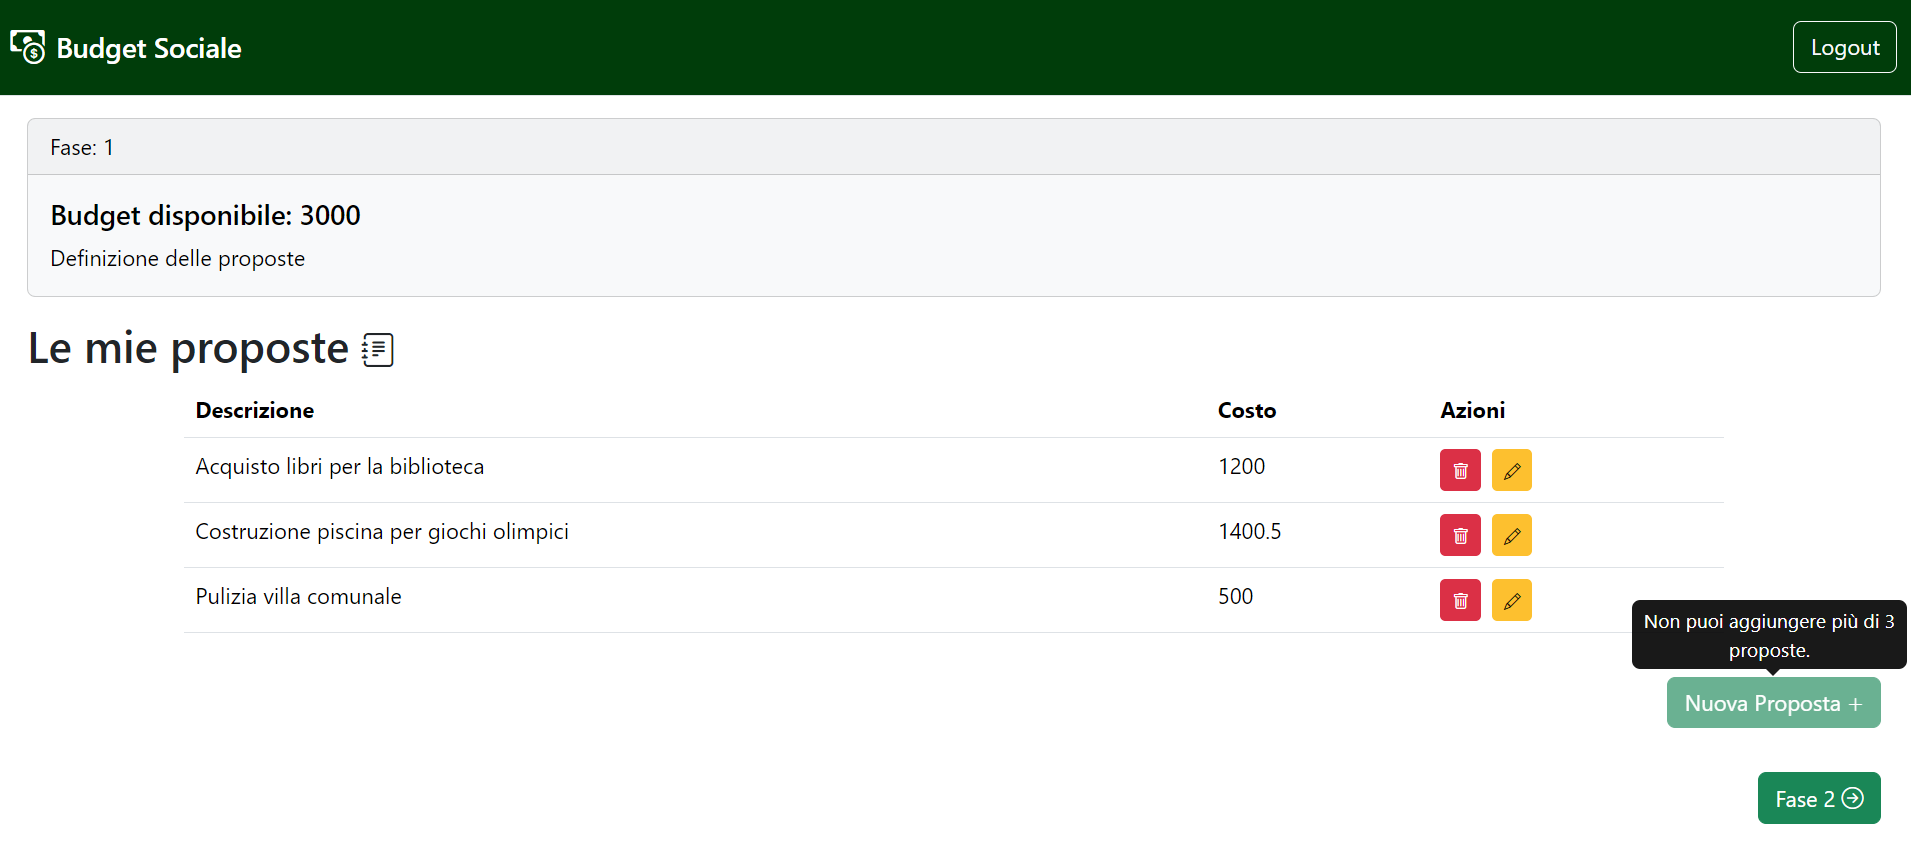
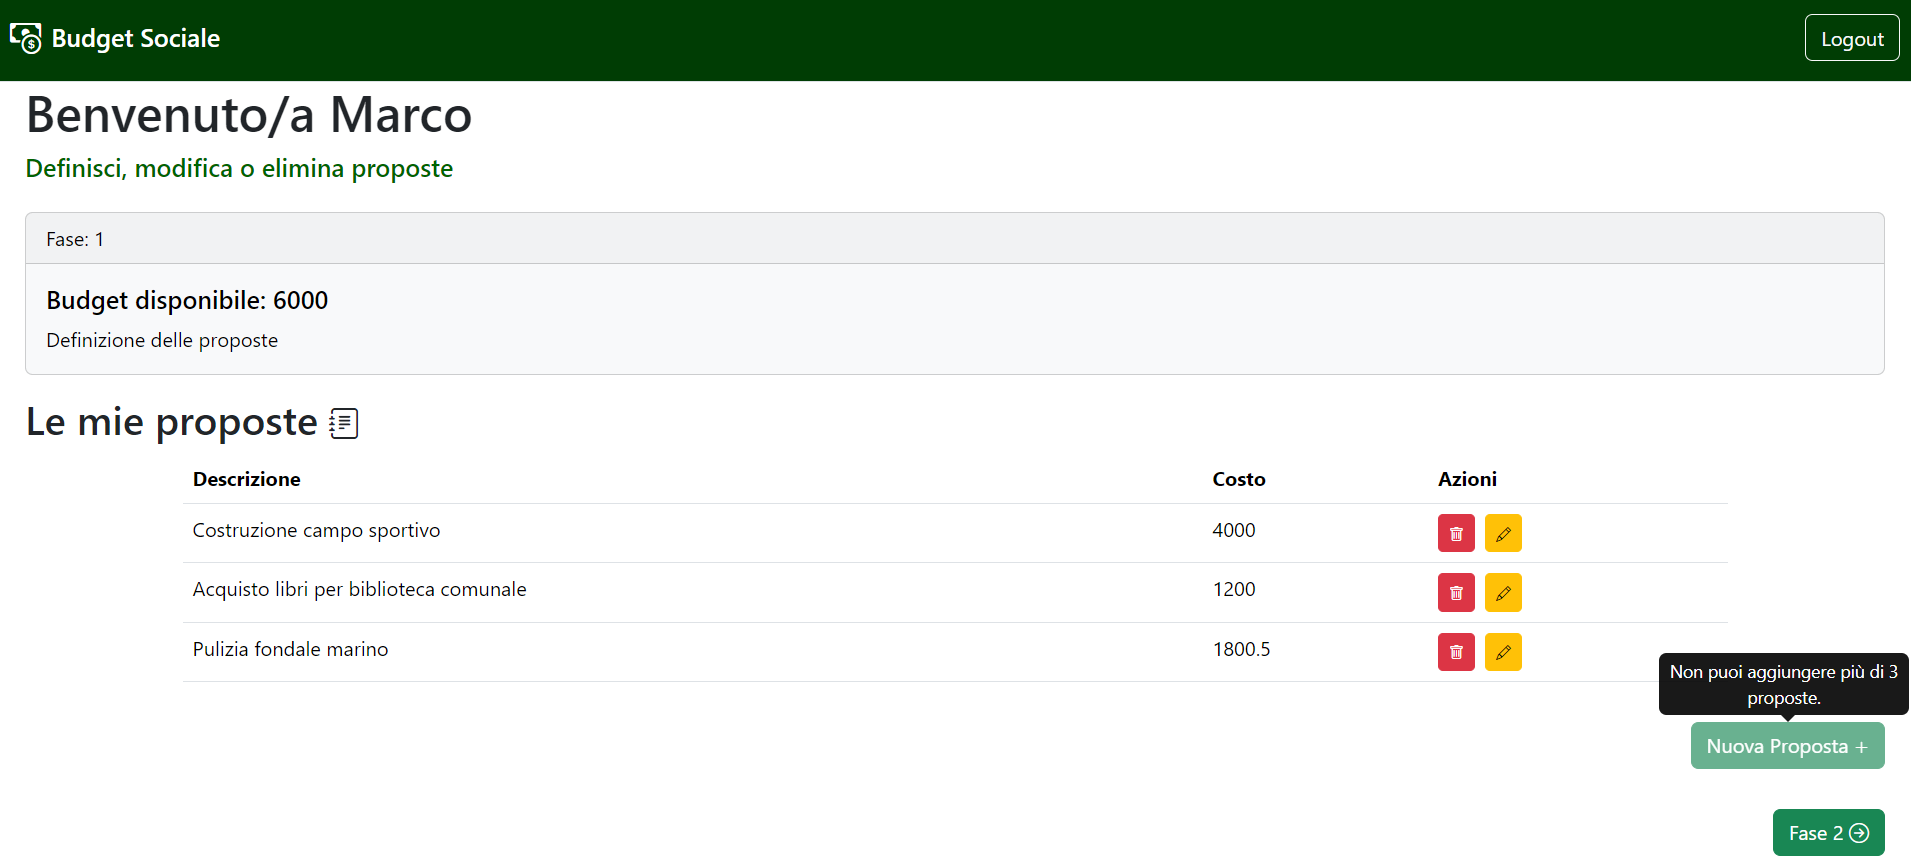
fix: FixingBug

diff --git a/client/src/components/AddEditProposalForm.jsx b/client/src/components/AddEditProposalForm.jsx
@@ -27,25 +27,6 @@ const AddEditProposalForm = ({ proposal, mode, user }) => {
     const formTitle = mode === 'edit' ? 'Modifica Proposta' : 'Aggiungi Nuova Proposta';
 
     /**
-     * UseEffect per recuperare fase e budget attuale
-     */
-    /*useEffect(() => {
-      const fetchData = async () => {
-        try {
-          const budgetSociale = await API.getBudgetAndFase();
-          setFase(budgetSociale.current_fase); // Imposto la fase nel contesto
-          setBudget(budgetSociale.amount); // Imposto il budget nel contesto
-        } catch (error) {
-          console.error('Error fetching budget and fase:', error);
-          setAlertMessage('Errore nel recupero del budget e della fase');
-        }
-      };
-  
-      fetchData(); //Chiamo la funzione all'avvio del componente
-    }, []);
-    */
-
-    /**
      * UseEffect per recuperare i dettagli della proposta
      * Lo uso solo in modalità edit
      */
@@ -78,7 +59,7 @@ const AddEditProposalForm = ({ proposal, mode, user }) => {
             setAlertMessage('Il costo della proposta non può essere superiore del budget.');
             return;
         }
-        //Nuovo oggetto Proposal
+        
         const newProposal = { userId: user.id, description, cost, approved: 0 };
 
         // Controllo se la descrione è un numero (errore)

diff --git a/client/src/components/Phase2Page.jsx b/client/src/components/Phase2Page.jsx
@@ -101,6 +101,13 @@ const Phase2Page = ({ user }) => {
         </Alert>
       )}
 
+    <Row>
+      <Col>
+        <h1>Benvenuto/a {user.name}</h1>
+        <h5 style={{ color: 'darkgreen' }}>Esprimi la tua preferenza per le proposte</h5>
+      </Col>
+    </Row>
+
       <Row>
         <Col>
           {/* Card bootstrap per il budget e la fase */}
@@ -108,8 +115,7 @@ const Phase2Page = ({ user }) => {
             <Card.Header className="text-black">Fase: 2</Card.Header>
             <Card.Body className="text-black">
               <Card.Title>Preferenze Proposte</Card.Title>
-              <Card.Text> Esprimi la tua preferenza per le proposte <br></br>
-              <strong>Attenzione: Puoi esprimere un punteggio da 1 a 3 per ogni preferenza</strong></Card.Text>
+              <Card.Text><strong>Attenzione: Puoi esprimere un punteggio da 1 a 3 per ogni preferenza</strong></Card.Text>
             </Card.Body>
           </Card>
         </Col>

diff --git a/client/src/components/Phase0Page.jsx b/client/src/components/Phase0Page.jsx
@@ -103,7 +103,8 @@ const Phase0Page = ({ user }) => {
         <div>
           <Row>
             <Col>
-              <h1>Fase 0</h1>
+              <h1>Benvenuto/a {user.name}</h1>
+              <h5 style={{ color: 'darkgreen' }}>Imposta un budget per iniziare il processo di definizione delle proposte</h5>
             </Col>
           </Row>
           
@@ -141,9 +142,14 @@ const Phase0Page = ({ user }) => {
           </Row>
         </div>
       ) : ( //Se l'user non è Admin
+        
         <Row>
           <Col>
-            
+          <Row>
+            <Col>
+              <h1>Benvenuto/a {user.name}</h1>
+            </Col>
+          </Row>
             <Card className="card bg-light mb-3" style={{ maxWidth: '100rem', marginTop: '1rem' }}>
               <Card.Header className="text-black">Fase: 0</Card.Header>
               <Card.Body className="text-black">

diff --git a/client/src/components/MyPreferences.jsx b/client/src/components/MyPreferences.jsx
@@ -57,6 +57,7 @@ const MyPreferences = ({ user }) => {
 
   return (
     <Container fluid className="gap-3 align-items-center">
+      
       {/* Alert */}
       {alertMessage && (
         <Alert variant="success" onClose={() => setAlertMessage(null)} dismissible>
@@ -76,6 +77,7 @@ const MyPreferences = ({ user }) => {
 
       <Row>
         <Col>
+          {/* Card Bootstrap */}
           <Card className="card bg-light-yellow mb-3" style={{ maxWidth: '100rem', marginTop: '0.5rem' }}>
             <Card.Header className="text-black">Preferenze espresse</Card.Header>
             <Card.Body className="text-black">
@@ -85,8 +87,6 @@ const MyPreferences = ({ user }) => {
           </Card>
         </Col>
       </Row>
-
-      
 
       <Row>
         <Col lg={10} className="mx-auto">

diff --git a/client/src/components/Phase3Page.jsx b/client/src/components/Phase3Page.jsx
@@ -64,6 +64,12 @@ const Phase3Page = ({ user }) => {
 
             <Row>
                 <Col>
+                    {user && <h1>Benvenuto/a {user.name}</h1>}
+                </Col>
+            </Row>
+
+            <Row>
+                <Col>
                     {/* Card bootstrap per il budget e la fase */}
                     <Card className="card bg-light-green mb-3" style={{ maxWidth: '100rem', marginTop: '1rem' }}>
                         <Card.Header className="text-black">Fase: 3</Card.Header>

diff --git a/client/src/components/Phase1Page.jsx b/client/src/components/Phase1Page.jsx
@@ -107,6 +107,13 @@ const Phase1Page = ({ user }) => {
 
       <Row>
         <Col>
+          <h1>Benvenuto/a {user.name}</h1>
+          <h5 style={{ color: 'darkgreen' }}>Definisci, modifica o elimina proposte</h5>
+        </Col>
+      </Row>
+
+      <Row>
+        <Col>
           {/* Card bootstrap per il budget e la fase */}
           <Card className="card bg-light mb-3" style={{ maxWidth: '100rem', marginTop: '1rem' }}>
             <Card.Header className="text-black">Fase: 1</Card.Header>

diff --git a/client/src/components/NotApprovedProposalsPage.jsx b/client/src/components/NotApprovedProposalsPage.jsx
@@ -5,7 +5,6 @@ import '../App.css';
 import React, { useEffect, useState } from 'react';
 import { Link, useNavigate, useParams } from 'react-router-dom';
 import { Container, Row, Col, Button, Card, Table, Alert, OverlayTrigger, Tooltip, Dropdown  } from 'react-bootstrap';
-import { PhaseProvider, usePhase } from '../contexts/PhaseContext.jsx';
 import { BiArrowBack } from 'react-icons/bi';
 import API from '../API';
 

diff --git a/README.md b/README.md
@@ -17,7 +17,7 @@
 - Route: `/notlogged`: pagina renderizzata quando l'utente non è ancora loggato. 
   - Nelle fasi 0-2 mostrerà un messaggio che spiega che la definizionde delle proposte è ancora in corso. 
   - Nella fase 3 mostrerà l'elenco delle proposte approvate
-- Route `*`: comprende tutte le route diverse da quelle sopra elencate mostra un immagine 404 Not Found e un bottone per navigare alla home (/)
+- Route `*`: comprende tutte le route diverse da quelle sopra elencate mostra un immagine 404 Not Found e un pulsante per navigare alla home (/)
 
 ## API Server
 
@@ -90,7 +90,7 @@
     ...
   ]
   ```
-  - Error responses: `500 Internal Server Error` (generic error), `404 Proposals not found`
+  - Error responses: `500 Internal Server Error` (Generic Error), `404 Proposals not found` (Proposals Not Found), `401 Unauthorized` (User Not Authorized - Not Logged)
 
 - GET `/api/proposals/id/:proposalId`
   - Description: Recupera la proposta in base al suo id
@@ -106,33 +106,30 @@
       "approved": 0
     }
     ```
-  - Error responses: `500 Internal Server Error` (generic error), `404 Proposals not found` (not found error), `401 Unauthorized` (utente non autorizzato - non loggato)
+  - Error responses: `500 Internal Server Error` (Generic Error), `404 Proposals not found` (Proposals Not Found), `401 Unauthorized` (User Not Authorized - Not Logged)
 
 - POST `/api/proposals`
   - Description: Aggiunge una nuova proposta di uno specifico user
-  - Request body: descrizione della proposta da aggiungere
-
+  - Request body: Descrizione della proposta da aggiungere
   ``` json
     {
-      "user_id": 2,
       "description": "Pulizia fondale marino",
       "cost": 450
     }
+  ```    
+  - Response: `200 OK` (success)
+  - Response body: Intera proposta aggiunta
+  
+  ``` json
+  {
+    "id": 7,
+    "userId": 2,
+    "description": "Pulizia fondale marino",
+    "cost": 450,
+    "approved": 0
+  }
   ```
-    
-    - Response: `200 OK` (success)
-    - Response body: Intera proposta aggiunta
-    
-    ``` json
-    {
-      "id": 7,
-      "userId": 2,
-      "description": "Pulizia fondale marino",
-      "cost": 450,
-      "approved": 0
-    }
-  ```
-  - Error responses: `409 Proposal Already Exists` (proposal already exists), `422 Unprocessable Entity` (invalid input), `503 Service Unavailable` (database error), `404 Budget Not Exists` (Budget Not Exist Error), `403 Cost of the proposal greater than the defined budget` (Proposal greather than budget), `401 Unauthorized` (utente non autorizzato - non loggato)
+  - Error responses: `409 Proposal Already Exists` (Proposal Already Exists), `422 Unprocessable Entity` (Invalid Input), `503 Service Unavailable` (Database Error), `404 Budget Not Exists` (Budget Not Exist Error), `403 Cost of the proposal greater than the defined budget` (Proposal Greather Than Budget), `401 Unauthorized` (Another user's proposal),  `403 Cost of the proposal greater than the defined budget`, (Already Three Propoposals)
 
 - PUT `/api/proposals/:id`
   - Description: Modifica la proposta di uno specificato utente
@@ -374,8 +371,8 @@
 
 ## Database Tables
 
-- Table `Users` - contiene gli utenti presenti nel database. Formata da: id, name, surname, role, username(email), password, salt
-- Table `Proposal` - contiene le proposte presenti nel database. Formata da: id, user_id, description, cost, approved
+- Table `Users` - tabella che contiene gli utenti presenti nel database. Formata da: id, name, surname, role, username(email), password, salt
+- Table `Proposal` - tabella che contiene le proposte presenti nel database. Formata da: id, user_id, description, cost, approved
 - Table `Vote` - tabella usata per legare la relazione tra User e Proposal, contiene user_id, proposal_id, che sono chiavi esterne, e l'attributo score che indica il punteggio dato dall'utente
 - Table `BudgetSociale` - tabella che contiene una sola istanza formata da id, amount (budget) e la fase corrente (current_fase)
 
@@ -402,9 +399,7 @@
 ## Screenshot
 
 ![Fase1](./Material/Fase1.png)
-![Fase1AddForm](./Material/Fase1AddForm.png)
 ![Fase2](./Material/Fase2.png)
-![Fase2MyPreferences](./Material/Fase2MyPreferences.png)
 
 
 ## Users Credentials
